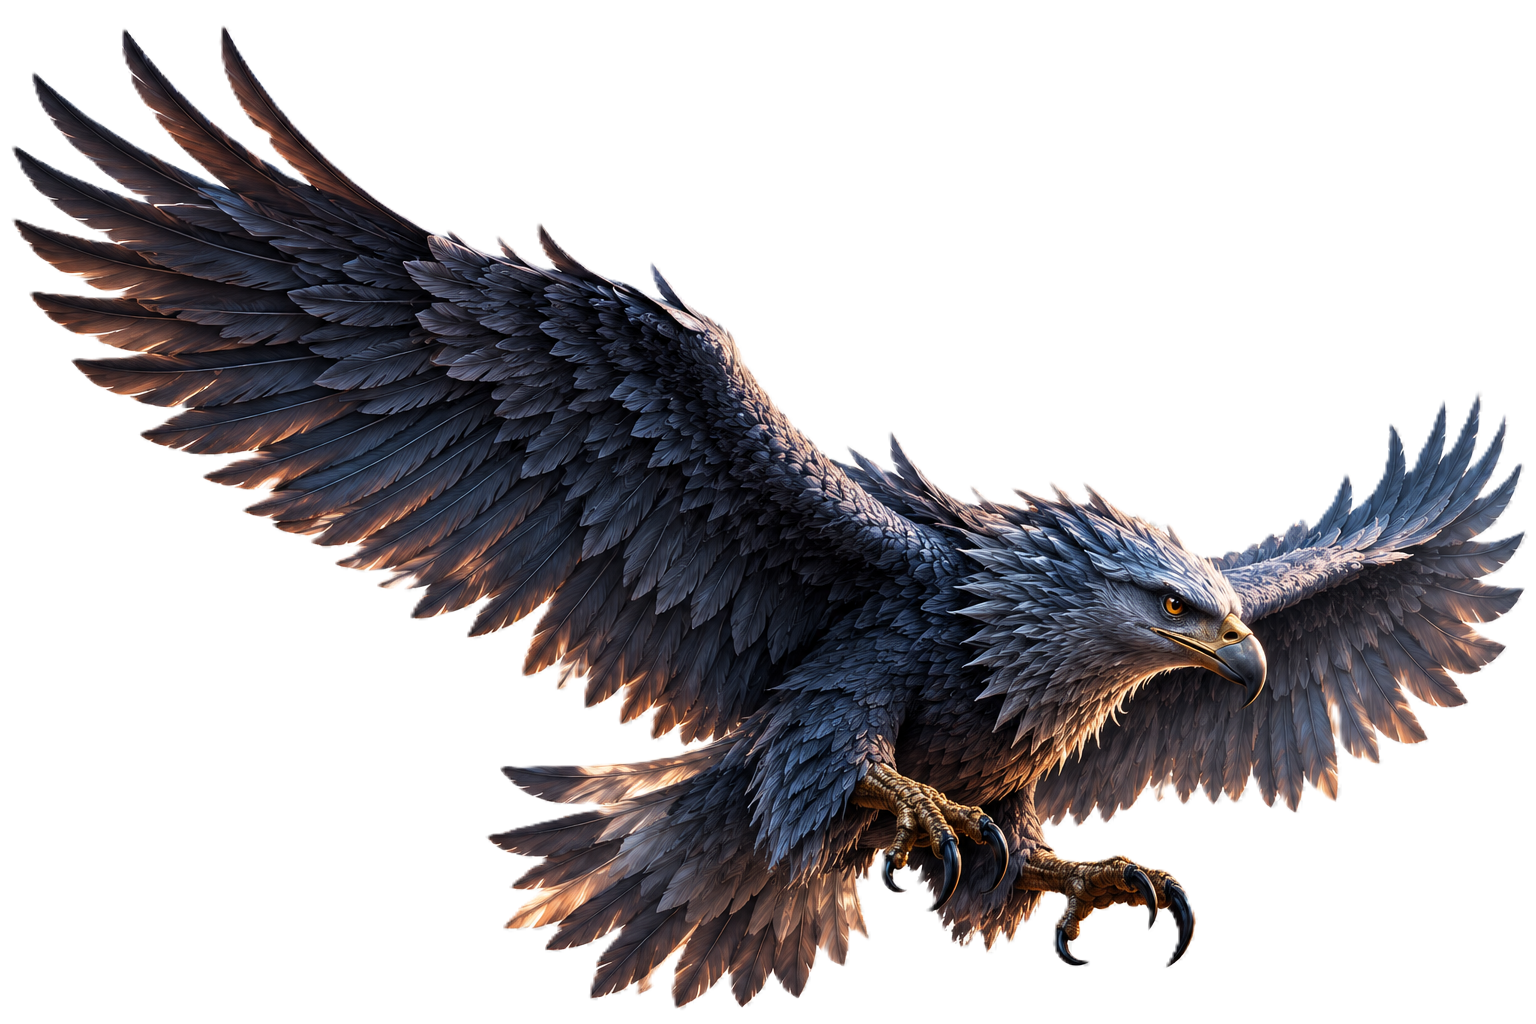
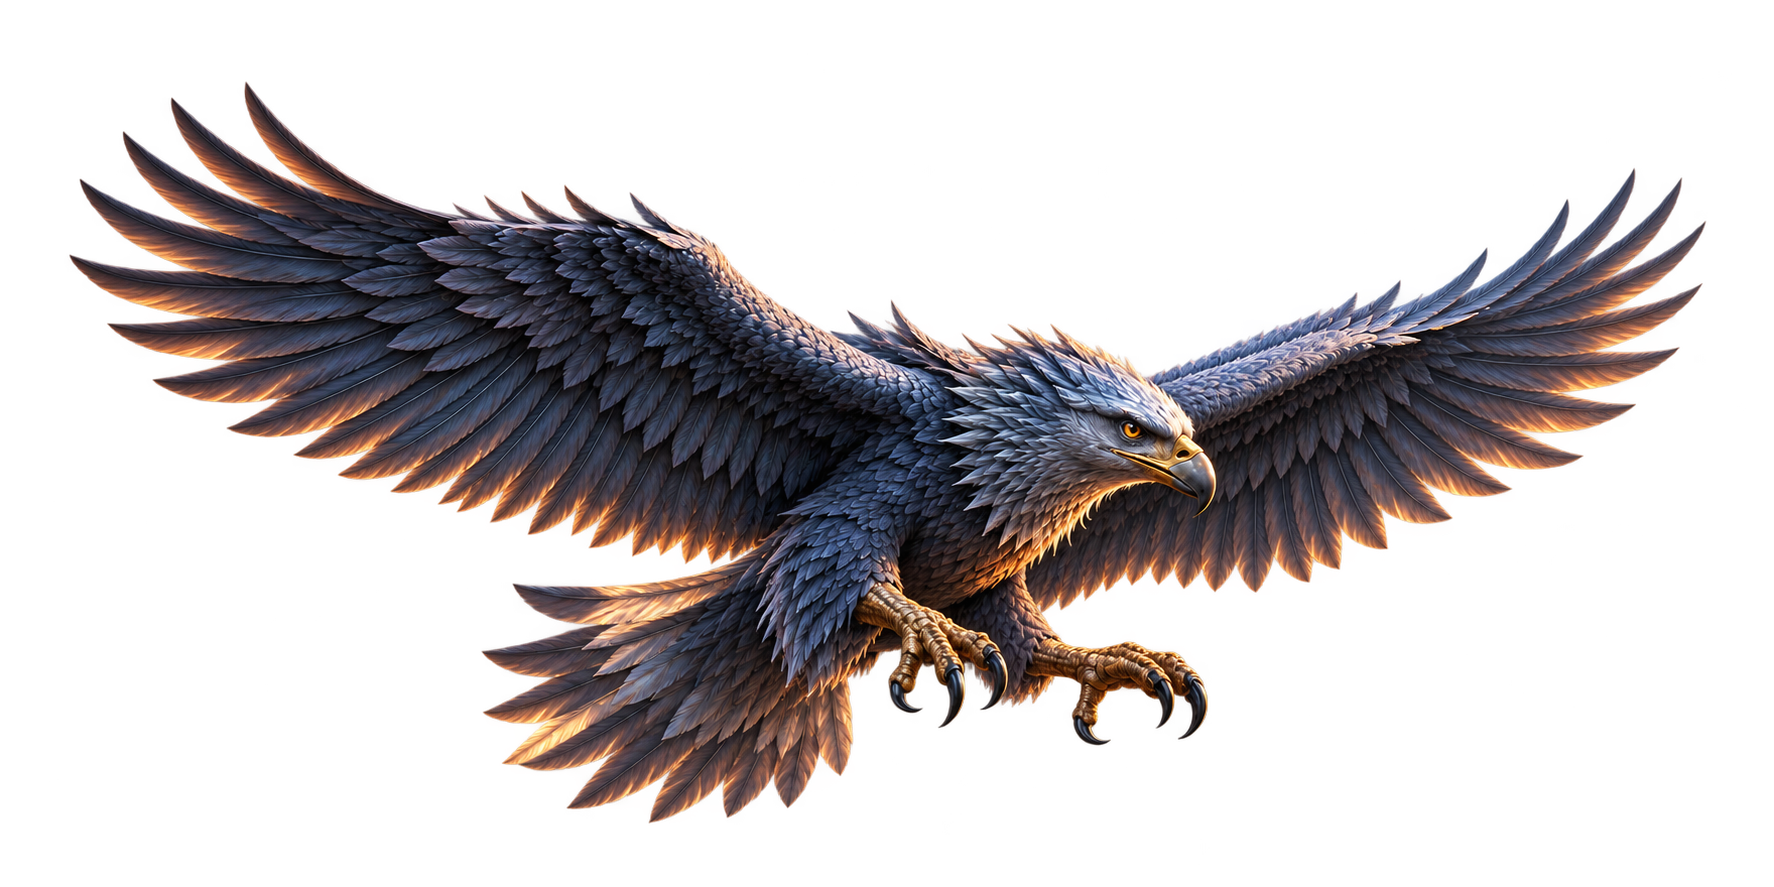
Integra i quattro cocktail, ripristina il grifone intero e attenua la mappa

diff --git a/src/main/java/com/alchemist/hangover/view/chapter/Chapter1Panel.java b/src/main/java/com/alchemist/hangover/view/chapter/Chapter1Panel.java
@@ -38,7 +38,7 @@ public class Chapter1Panel extends AbstractChapterPanel {
         // 2. Caricamento Risorse Grafiche Dialoghi
 
         dialogue = new DialogueManager.SceneSession(this,
-                speaker -> "HRAESVELGR".equals(speaker) ? new Rectangle(100, 12, 1080, 450)
+                speaker -> ("HRAESVELGR".equals(speaker) || "GRIFONE".equals(speaker)) ? new Rectangle(100, 12, 1080, 450)
                         : new Rectangle(340, 30, 600, 620),
                 this::onDialogueFinished);
         dialogue.addPortrait("MARTINO", "/images/chapter1/npc/martino_realms.png");
@@ -47,7 +47,7 @@ public class Chapter1Panel extends AbstractChapterPanel {
         dialogue.addPortrait("GUNNAR", "/images/shared/npc/gunnar_realms.png");
         dialogue.addPortrait("MOZZO", "/images/chapter1/npc/mozzo_realms.png");
         dialogue.addPortrait("DIAVOLETTO", "/images/shared/npc/diavoletto_realms.png");
-        dialogue.addPortrait("GRIFONE", "/images/chapter1/npc/grifone_realms.png");
+        dialogue.addFittedPortrait("GRIFONE", "/images/chapter1/npc/grifone_realms.png");
 
         // 4. Inizializzazione Hotspots & Oggetti
         initHotspots();
@@ -87,8 +87,9 @@ public class Chapter1Panel extends AbstractChapterPanel {
                 "Parla con Veðrfölnir", "/dialogues/vedrfolnir_dialogue.txt");
 
         // Creazione bottoni visibili per gli oggetti raccolti a schermo
-        addItemWorldButton("MAPPA_CIELO", "/images/chapter1/items/map.png", 968, 348, 78, 44, 5,
+        addItemWorldButton("MAPPA_CIELO", "/images/chapter1/items/map.png", 1050, 294, 78, 44, 5,
                 "Mappa del Cielo", "Una pergamena cosmica trovata nella stiva.");
+        muteWorldItem("MAPPA_CIELO", 0.55f);
 
         addItemWorldButton("NEBBIA_NIFLHEIM", "/images/chapter1/items/fog.png", 322, 529, 55, 55, 5,
                 "Nebbia di Niflheim", "Una fiala sigillata contenente fumo denso e gelido.");

diff --git a/src/main/java/com/alchemist/hangover/view/story/EpiloguePanel.java b/src/main/java/com/alchemist/hangover/view/story/EpiloguePanel.java
@@ -15,6 +15,7 @@ public final class EpiloguePanel extends JPanel {
     private final JLabel heading = new JLabel("", SwingConstants.CENTER);
     private final JLabel narration = new JLabel("", SwingConstants.CENTER);
     private final JButton next = new JButton("CONTINUA");
+    private final JLabel cocktail = new JLabel();
     private int page;
     private final Image backdrop;
 
@@ -45,6 +46,18 @@ public final class EpiloguePanel extends JPanel {
         setPreferredSize(new Dimension(1280, 720));
         URL url = getClass().getResource("/images/intro/menu_bg.png");
         backdrop = url == null ? null : new ImageIcon(url).getImage();
+
+        URL drinkUrl = getClass().getResource("/images/chapter4/items/ragnarok_flambe.png");
+        if (drinkUrl != null) {
+            ImageIcon source = new ImageIcon(drinkUrl);
+            double scale = Math.min(300.0 / source.getIconWidth(), 300.0 / source.getIconHeight());
+            cocktail.setIcon(new ImageIcon(source.getImage().getScaledInstance(
+                    (int) (source.getIconWidth() * scale),
+                    (int) (source.getIconHeight() * scale), Image.SCALE_SMOOTH)));
+        }
+        cocktail.setBounds(115, 200, 300, 300);
+        cocktail.setHorizontalAlignment(SwingConstants.CENTER);
+        add(cocktail);
 
         heading.setBounds(110, 95, 1060, 85);
         heading.setFont(new Font("Georgia", Font.BOLD, 47));
@@ -86,6 +99,8 @@ public final class EpiloguePanel extends JPanel {
     }
 
     private void refresh() {
+        cocktail.setVisible(page == 0);
+        narration.setBounds(page == 0 ? 440 : 110, 208, page == 0 ? 710 : 1060, 280);
         heading.setText(TITLES[page]);
         narration.setText(STORY[page]);
         next.setText(page == STORY.length - 1 ? "TORNA AL MENU" : "CONTINUA");

diff --git a/src/main/java/com/alchemist/hangover/view/chapter/Chapter3Panel.java b/src/main/java/com/alchemist/hangover/view/chapter/Chapter3Panel.java
@@ -63,17 +63,7 @@ public final class Chapter3Panel extends AbstractChapterPanel {
                 303, 481, 62, 44, 5, "Frammento di Yggdrasil",
                 "Una scheggia di legno millenario che emette una debole luce dorata.");
         // Il frammento sul terreno riflette meno luce rispetto all’icona nell’inventario.
-        JButton fragment = itemButtons.get("FRAMMENTO_YGGDRASIL");
-        ImageIcon source = (ImageIcon) fragment.getIcon();
-        if (source != null) {
-            java.awt.image.BufferedImage muted = new java.awt.image.BufferedImage(
-                    source.getIconWidth(), source.getIconHeight(), java.awt.image.BufferedImage.TYPE_INT_ARGB);
-            Graphics2D g = muted.createGraphics();
-            g.setComposite(AlphaComposite.SrcOver.derive(0.55f));
-            source.paintIcon(fragment, g, 0, 0);
-            g.dispose();
-            fragment.setIcon(new ImageIcon(muted));
-        }
+        muteWorldItem("FRAMMENTO_YGGDRASIL", 0.55f);
         createBreathingCrackHotspot();
         createGunnarHotspot();
         initGunnarDialogue();

diff --git a/src/main/java/com/alchemist/hangover/view/chapter/AbstractChapterPanel.java b/src/main/java/com/alchemist/hangover/view/chapter/AbstractChapterPanel.java
@@ -163,6 +163,23 @@ public abstract class AbstractChapterPanel extends JPanel {
         add(button);
     }
 
+    /** Attenua solo l'icona nella stanza; l'inventario mantiene l'originale. */
+    protected final void muteWorldItem(String id, float opacity) {
+        JButton button = itemButtons.get(id);
+        Icon source = button.getIcon();
+        if (source == null) return;
+        java.awt.image.BufferedImage muted = new java.awt.image.BufferedImage(
+                source.getIconWidth(), source.getIconHeight(), java.awt.image.BufferedImage.TYPE_INT_ARGB);
+        Graphics2D graphics = muted.createGraphics();
+        try {
+            graphics.setComposite(AlphaComposite.SrcOver.derive(opacity));
+            source.paintIcon(button, graphics, 0, 0);
+        } finally {
+            graphics.dispose();
+        }
+        button.setIcon(new ImageIcon(muted));
+    }
+
     private void collectWorldItem(WorldItemDefinition definition, JButton button) {
         GameState state = GameState.getInstance();
         if (state.hasItem(definition.id)) {
